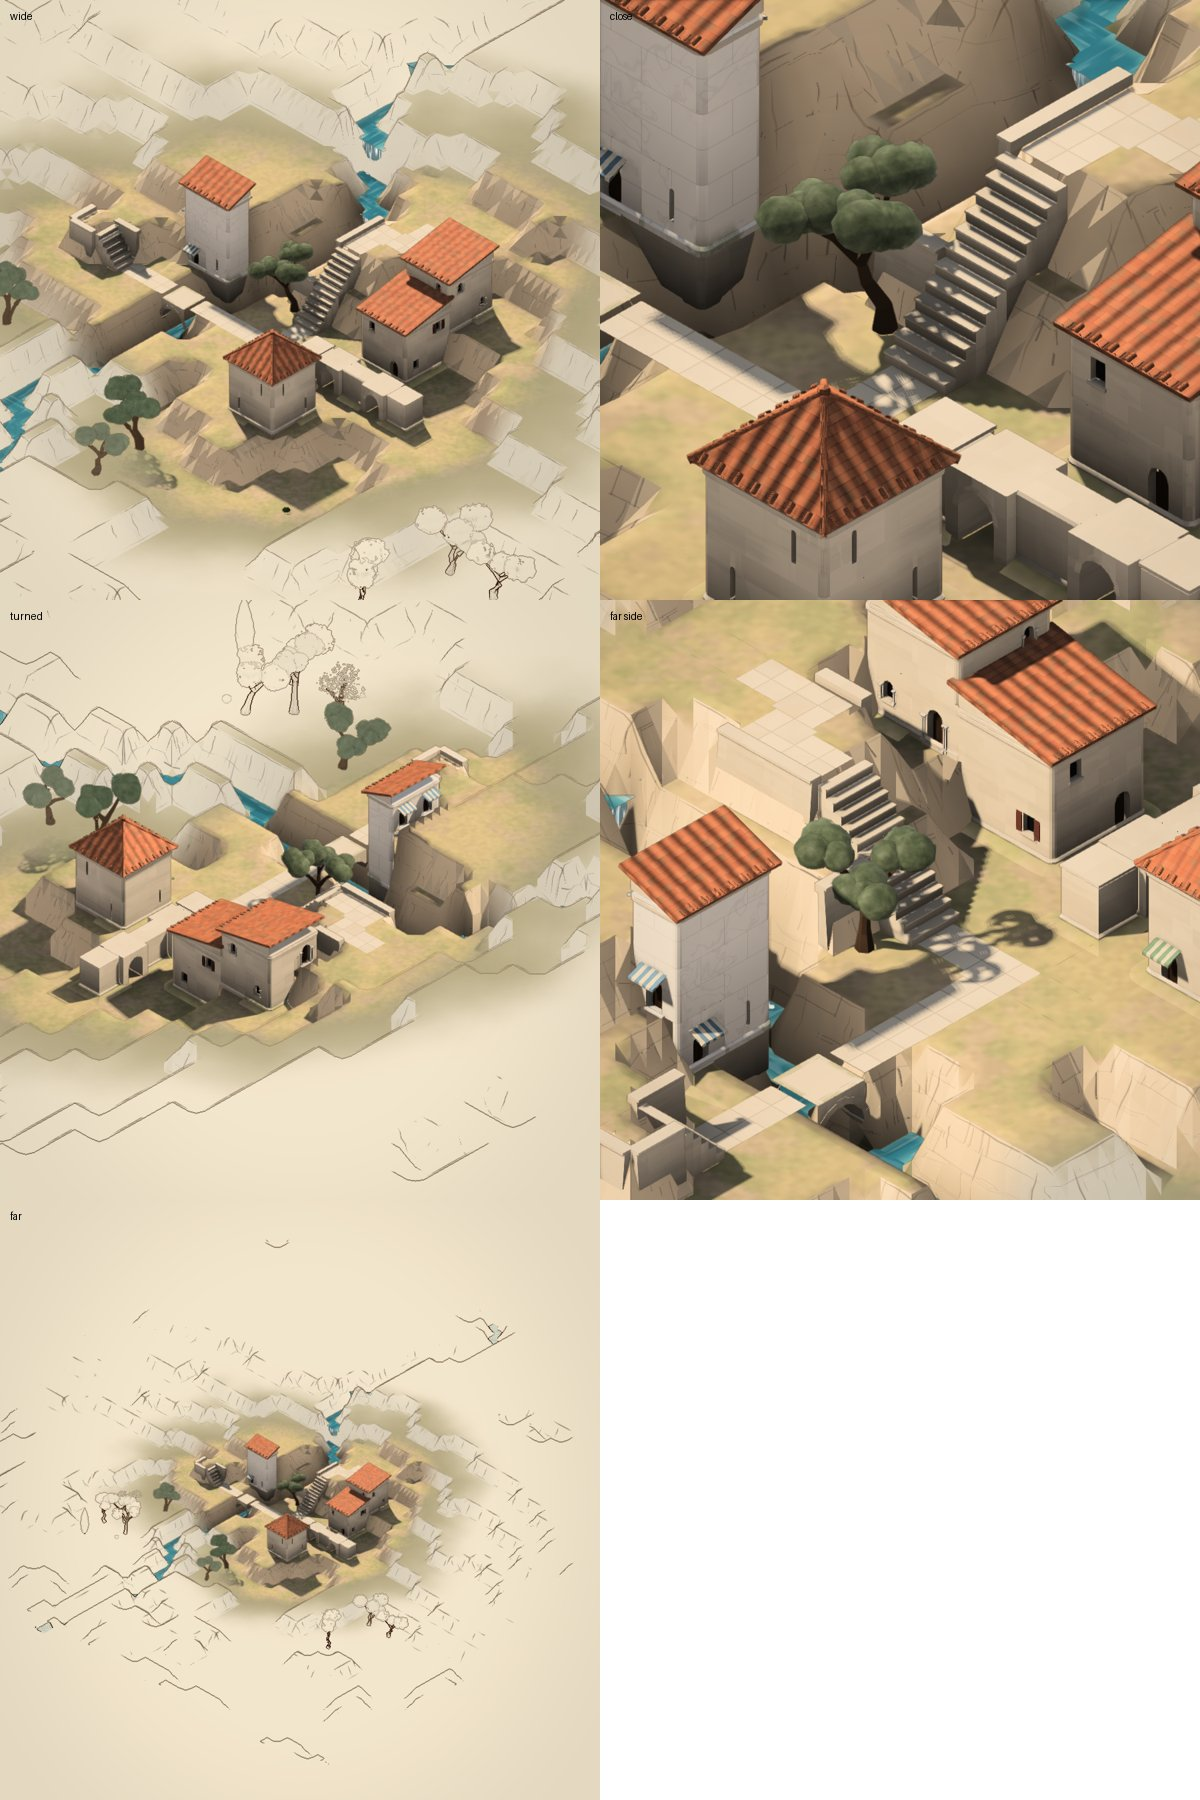
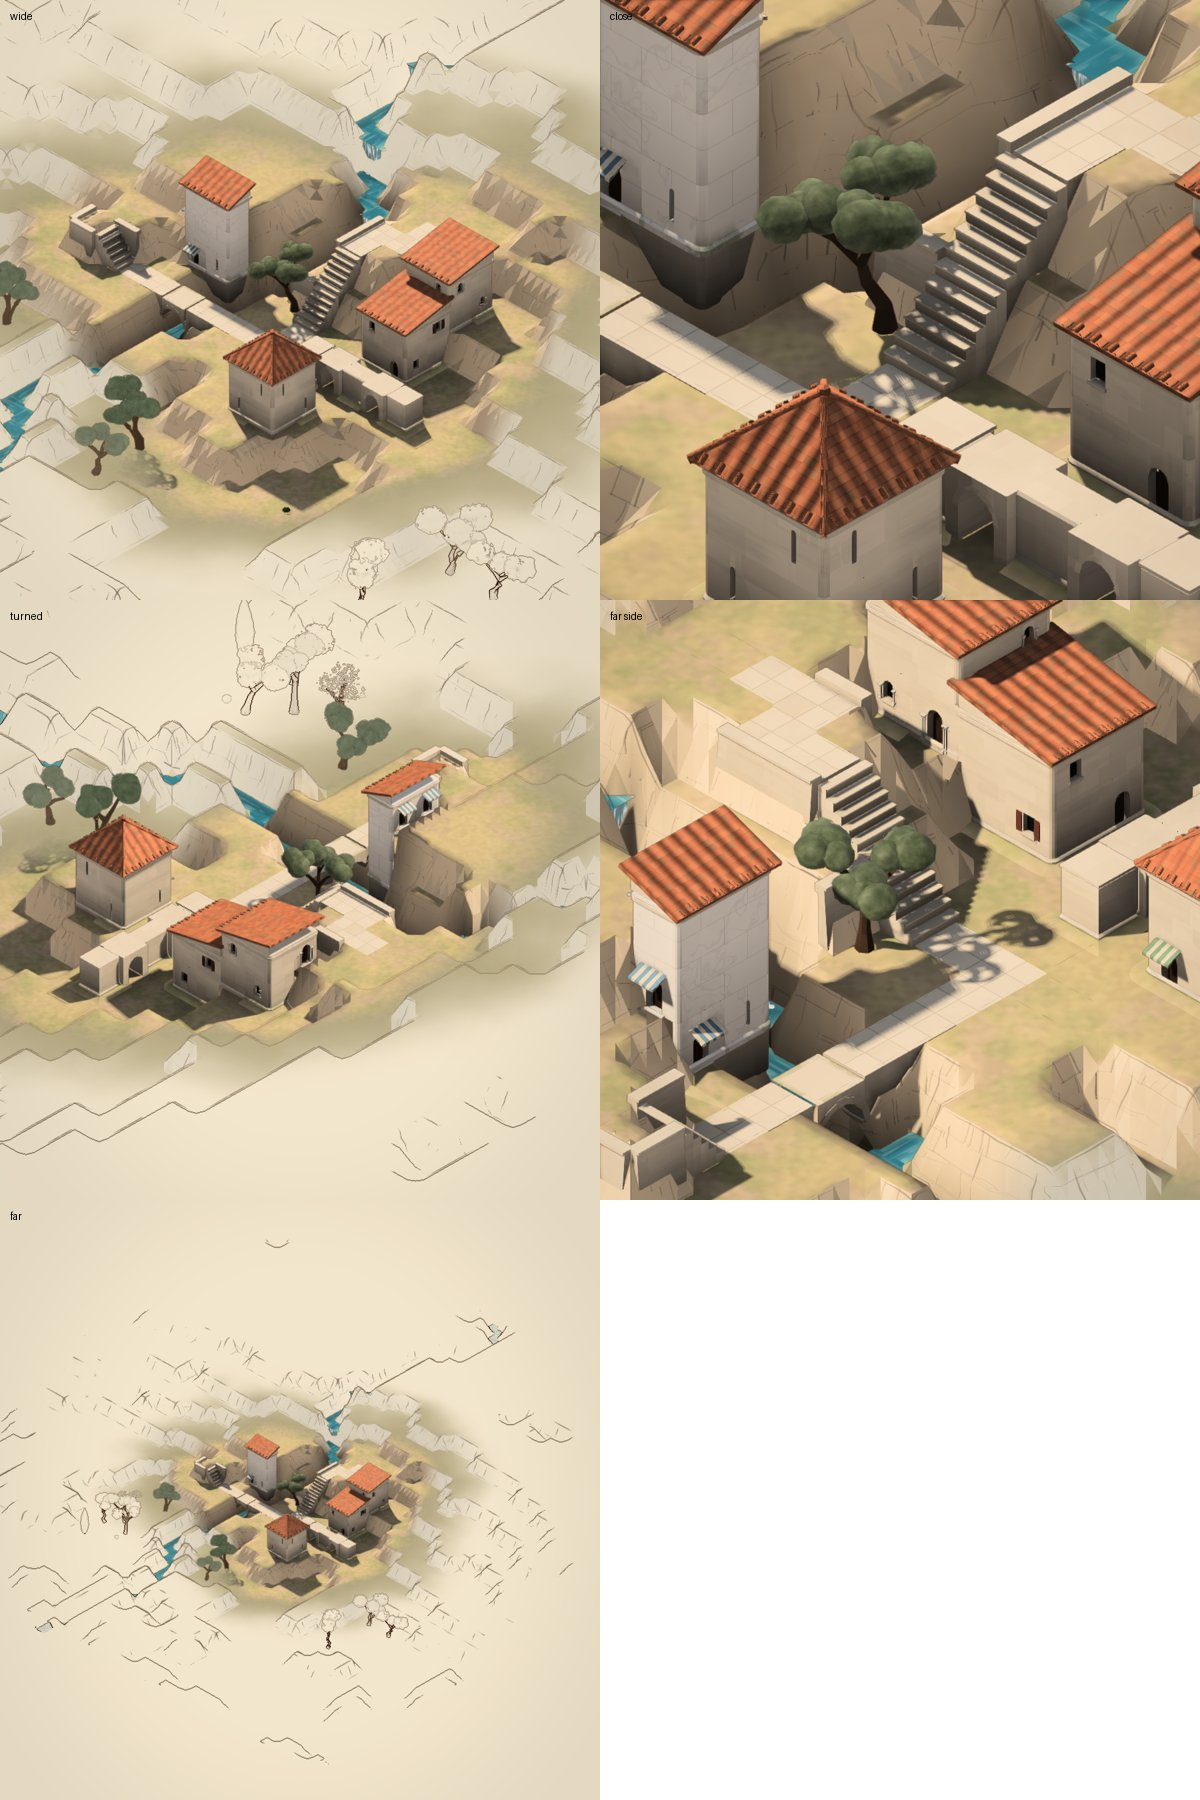
labyrinth: ground ways on a masonry bed: flush to what they meet, kerbed down into the land elsewhere
A way's flags no longer float as a sheet over a bank or the stream's edge:
they run flush to paving, courts, stone or a bridge deck at their level, and
elsewhere stop short over a kerb that goes down into the land as far as it
falls away under that edge.

Claude-Session: https://claude.ai/code/session_01D2Nx3PayKJtFYoab5A57H3

diff --git a/cells/lab/client/labyrinth/mesh.ts b/cells/lab/client/labyrinth/mesh.ts
@@ -1119,13 +1119,37 @@ export function buildMesh(w: World, plain = false, selected: Set<number> = new S
       lathe(pp[0], pp[2], [[0.035, yw - 0.1], [0.035, top + 0.22], [0.045, top + 0.24], [0, top + 0.27]], MAT.wood, 6);
     }
     perf.end(); perf.begin('mesh.build.ground.paving');
-    // (a court's paving, and a way's on the ground: flags laid on the land's level middles)
+    // (a court's paving, and a way's on the ground: flags laid on a bed of masonry, not on the land as a sheet. Where it
+    // meets what carries on at its level (more paving, a court, a bridge's deck or other stone whose top is at its level,
+    // a flight's foot) it runs flush to it; elsewhere it stops a little short, and its bed shows as a kerb, going down
+    // into the land as deep as the land falls away under that edge, so a way across a bank or to the stream's edge is a
+    // built causeway standing on the ground, not a slab floating over it)
     for (let j = B.j0; j <= B.j1; j++) for (let i = B.i0; i <= B.i1; i++) {
       const court = w.courts.has(key(0, i, j)), paved = w.paved(i, j);
       if (!court && !paved) continue;
-      const g = w.ground(i, j), y = g + 0.012, cx = X(i), cz = Z(j), e = (d: number) => { const [a, b] = DIRS[d]; return w.ground(i + a, j + b) === g && (w.courts.has(key(0, i + a, j + b)) || w.paved(i + a, j + b) || w.occupied(g, i + a, j + b)) ? 0 : 0.12; };
+      const g = w.ground(i, j), y = g + 0.012, cx = X(i), cz = Z(j);
+      const carries = (d: number) => { const [a, b] = DIRS[d], x = i + a, z = j + b; return w.ground(x, z) === g && (w.courts.has(key(0, x, z)) || w.paved(x, z) || w.occupied(g, x, z)); };
+      const flush = (d: number) => { const [a, b] = DIRS[d], x = i + a, z = j + b; return carries(d) || w.block(g - 1, x, z) || w.stair(g, x, z) === d || w.passage(g, x, z) >= 0 && w.block(g - 1, x, z); };
+      const e = (d: number) => (flush(d) ? 0 : 0.05);
       cur = { born: -1e3, pivot: 0, how: 1, tone: 0, dress: 0, sel: selected.has(key(g, i, j)) };
       quad([cx + e(2), y, cz + e(3)], [cx + 1 - e(0), y, cz + e(3)], [cx + 1 - e(0), y, cz + 1 - e(1)], [cx + e(2), y, cz + 1 - e(1)], [0, 1, 0], 0.95, MAT.court);
+      // (its bed's sides, along each edge it doesn't carry on across, down into the land under it)
+      for (let d = 0; d < 4; d++) {
+        if (carries(d)) continue;
+        const [a, b] = DIRS[d], [ta, tb] = DIRS[(d + 1) % 4], ox = cx + 0.5 + a * (0.5 - e(d)), oz = cz + 0.5 + b * (0.5 - e(d));
+        const S = 4;
+        // (each end held in from a corner by the inset of the side across it, so the kerbs meet at the corner)
+        const s0 = -0.5 + e((d + 3) % 4), s1 = 0.5 - e((d + 1) % 4);
+        let any = false; const pts: Array<[V3, V3]> = [];
+        for (let q = 0; q <= S; q++) {
+          const s = s0 + ((s1 - s0) * q) / S, px = ox + ta * s, pz = oz + tb * s, land = Y(px + CENTER, pz + CENTER);
+          const bot = Math.min(y - 0.09, land - 0.1);
+          if (land < y - 0.05) any = true;
+          pts.push([[px, y, pz], [px, bot, pz]]);
+        }
+        if (!any) continue;
+        for (let q = 0; q < S; q++) quad(pts[q][1], pts[q + 1][1], pts[q + 1][0], pts[q][0], [a, 0, b], [0.55, 0.55, 0.95, 0.95], MAT.stone);
+      }
     }
     perf.end(); perf.begin('mesh.build.ground.walls');
     // (banks held by walls, where what's beside them is used: context.ts)

diff --git a/cells/lab/static/labyrinth-look.md b/cells/lab/static/labyrinth-look.md
@@ -210,6 +210,12 @@ The fixes:
 
 **And where stone fills a bank.** Where what's built fills a bank's face from the lower ground up to the higher (stone built up from below, or a bridge from the stream's bed), the land on both sides now stays flat to it, as it does at a retaining wall (context.ts `sharp`). The ground meets the stone, without a slope running into it or a gully beside it. Wild things (boulders, scrub on the banks and on the open ground) are kept off a cell and its eight neighbours wherever anything is built, paved, a way or a flight's foot, so no shrubs on a stair's head or a boulder against a wall.
 
+**Ways on a bed.** A way laid on the ground was a sheet of flags at its level, floating wherever the land fell away under it (a bank, the stream's edge), and inset from its edges so the land showed between it and a bridge. Now its flags are laid on a bed of masonry:
+- **Flush where it carries on:** it runs right up to what continues at its level: more paving, a court, a bridge's deck or other stone whose top is at its level, a flight's foot.
+- **A kerb elsewhere:** it stops a little short, and its bed shows as a kerb, going down into the land as deep as the land falls away under that edge.
+
+A way across a bank or out to the stream is a built causeway standing on the ground. The terrain's left as it is: the built part answers it.
+
 ## Stage 15: gradual again, the cliffs' shade back (after the phone)
 
 ![Gradual, with the cliffs' shade](labyrinth/look-gradual.jpg)
